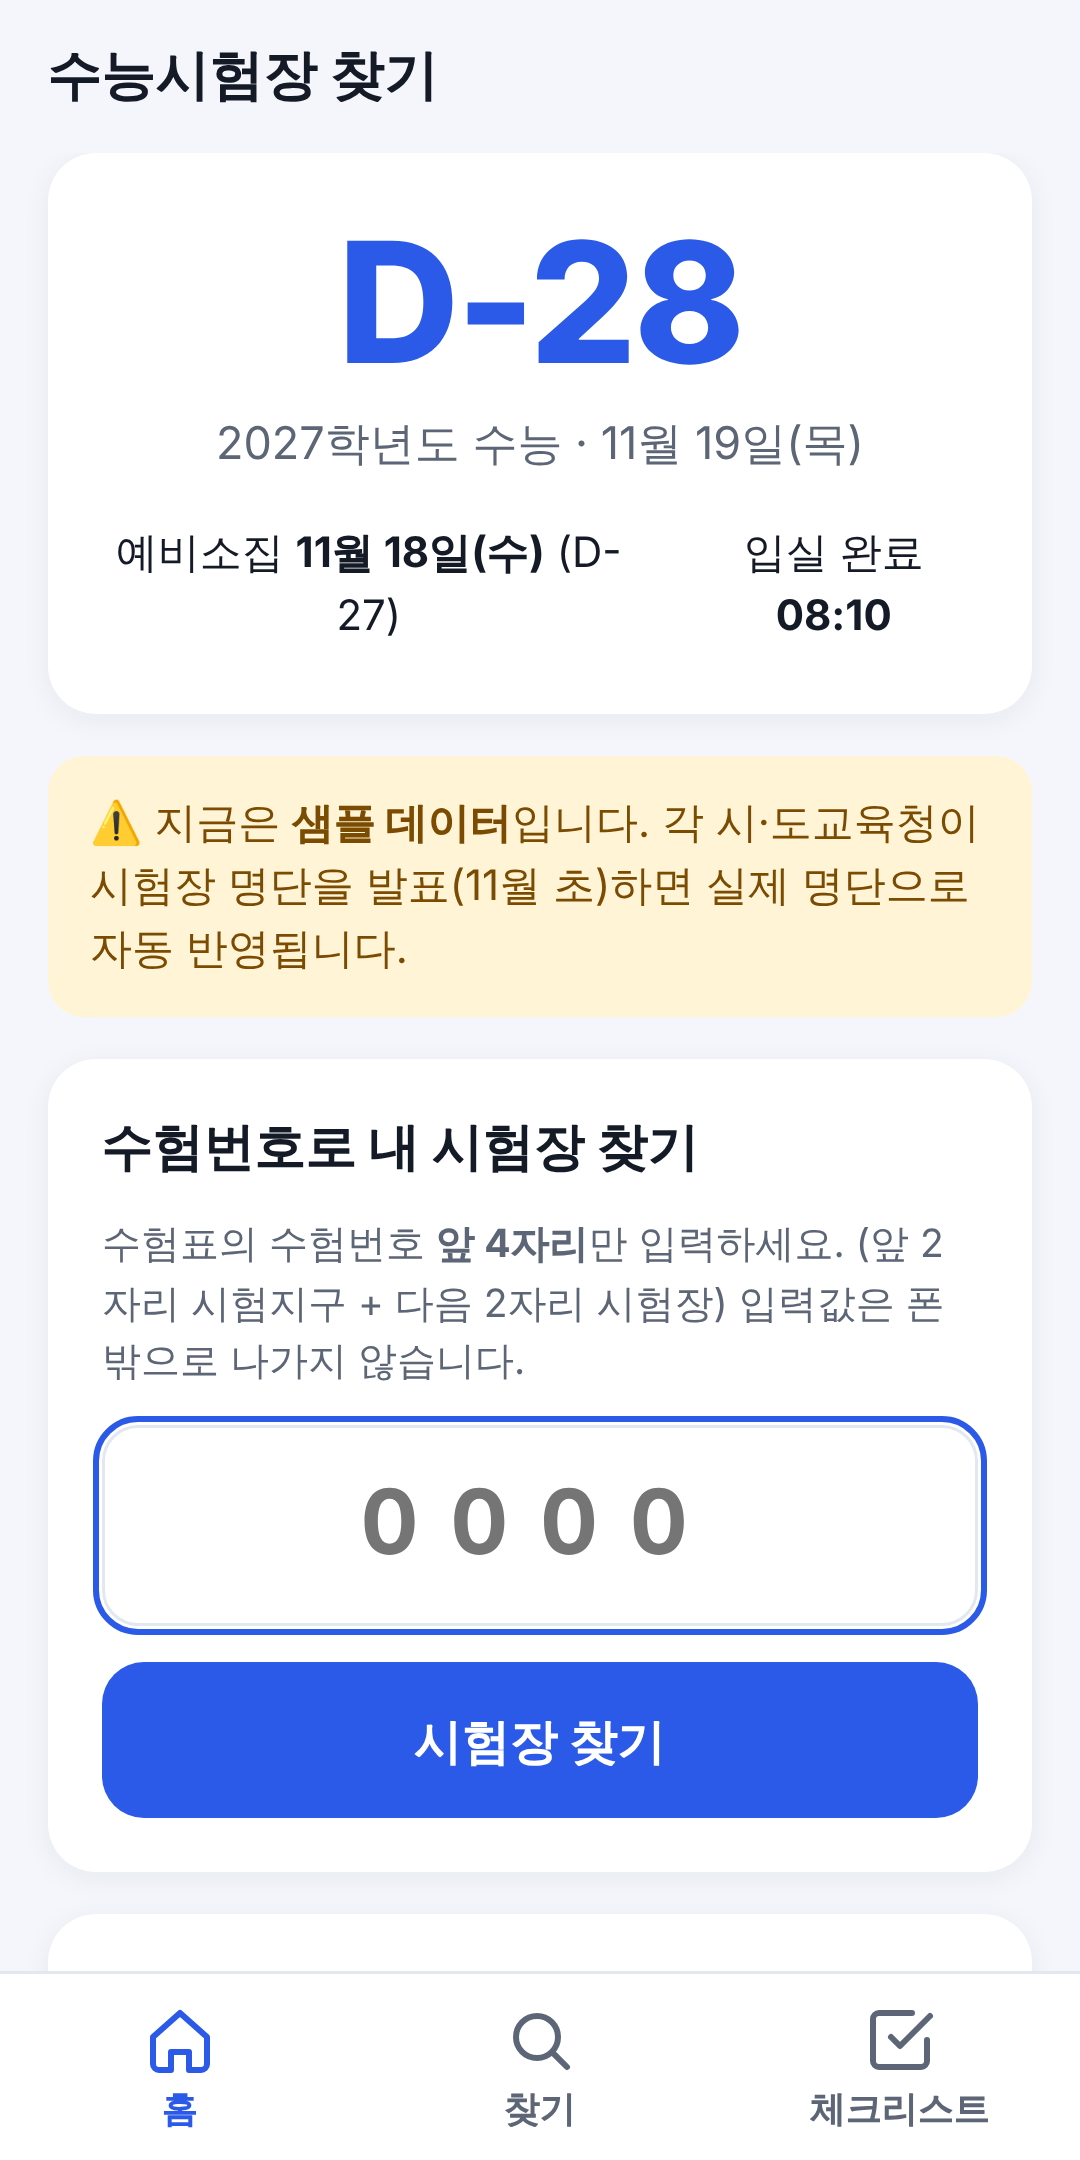
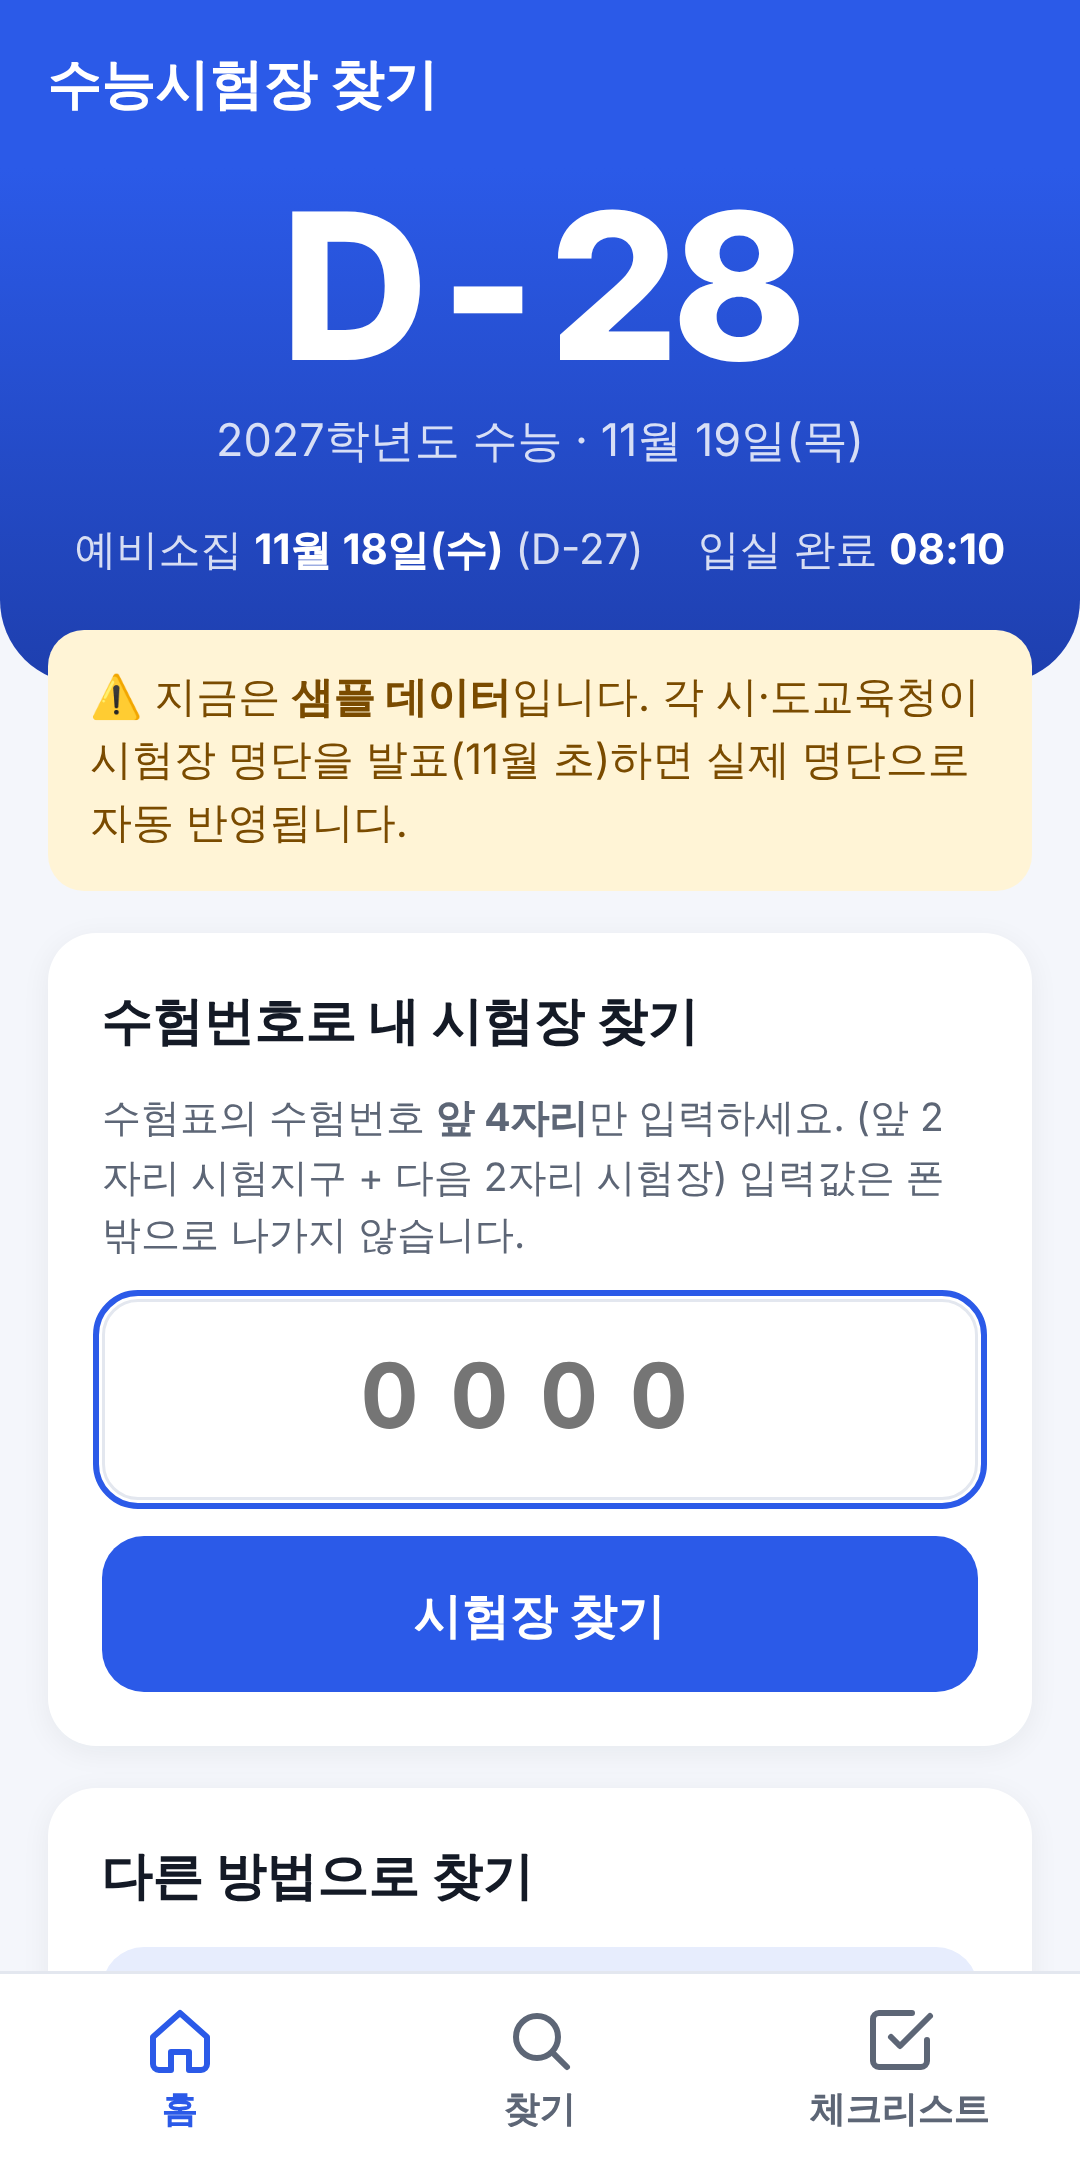
suneung-map: 앱 느낌의 파란 상단 바와 D-day 히어로, 다크 모드 보완, 스토어 스크린샷 갱신
Claude-Session: https://claude.ai/code/session_01HViATCC4YaR3fDJoB7hEYs

diff --git a/suneung-map/web/style.css b/suneung-map/web/style.css
@@ -2,6 +2,7 @@
   --bg: #f4f6fb; --card: #ffffff; --text: #141a26; --muted: #5d6676; --line: #e3e7ef;
   --accent: #2b5ae8; --accent-text: #ffffff; --accent-soft: #e7edfd;
   --warn-bg: #fff4d6; --warn-text: #7a4b00; --ok: #1f9d55; --danger: #d33a2f;
+  --bar: #2b5ae8; --bar-2: #1e3fae; --bar-fg: #ffffff; --bar-fg-soft: rgba(255,255,255,.82);
   --naver: #03c75a; --kakao: #fee500; --kakao-text: #191919; --tmap: #1b5fe0;
   --radius: 16px; --shadow: 0 2px 10px rgba(20, 26, 38, .06);
 }
@@ -9,13 +10,15 @@
   :root:not([data-theme="light"]) {
     --bg: #0f1420; --card: #1a2130; --text: #eef1f7; --muted: #9aa5b8; --line: #2a3345;
     --accent: #5b84ff; --accent-soft: #1f2a48; --warn-bg: #3a2e12; --warn-text: #ffd58a;
-    --shadow: 0 2px 10px rgba(0, 0, 0, .35);
+    --bar: #1b2f6e; --bar-2: #121f4a;
+    --shadow: 0 2px 10px rgba(0, 0, 0, .35); color-scheme: dark;
   }
 }
 :root[data-theme="dark"] {
   --bg: #0f1420; --card: #1a2130; --text: #eef1f7; --muted: #9aa5b8; --line: #2a3345;
   --accent: #5b84ff; --accent-soft: #1f2a48; --warn-bg: #3a2e12; --warn-text: #ffd58a;
-  --shadow: 0 2px 10px rgba(0, 0, 0, .35);
+  --bar: #1b2f6e; --bar-2: #121f4a;
+  --shadow: 0 2px 10px rgba(0, 0, 0, .35); color-scheme: dark;
 }
 * { box-sizing: border-box; }
 html, body { margin: 0; padding: 0; }
@@ -24,15 +27,28 @@ body {
   font-family: "Pretendard", -apple-system, BlinkMacSystemFont, "Apple SD Gothic Neo", "Noto Sans KR", "Malgun Gothic", system-ui, sans-serif;
   font-size: 16px; line-height: 1.5; -webkit-text-size-adjust: 100%;
   padding-bottom: calc(72px + env(safe-area-inset-bottom));
+  overscroll-behavior-y: none; -webkit-tap-highlight-color: transparent;
 }
+body::before { content: ""; position: fixed; inset: 0 0 auto; height: env(safe-area-inset-top, 0px); background: var(--bar); z-index: 11; }
+button, a.btn, nav.bottom a { user-select: none; -webkit-user-select: none; }
 a { color: var(--accent); }
 button { font: inherit; }
 header.top {
-  position: sticky; top: 0; z-index: 10; background: var(--bg);
-  display: flex; align-items: center; gap: 8px; padding: 12px 16px; padding-top: calc(12px + env(safe-area-inset-top));
+  position: sticky; top: env(safe-area-inset-top, 0px); z-index: 10; background: var(--bar); color: var(--bar-fg);
+  display: flex; align-items: center; gap: 8px; min-height: 56px; padding: 8px 16px;
 }
-header.top .back { background: none; border: 0; color: var(--text); font-size: 22px; padding: 4px 8px 4px 0; cursor: pointer; }
-header.top h1 { font-size: 18px; margin: 0; font-weight: 700; flex: 1; }
+header.top .back { background: none; border: 0; color: var(--bar-fg); font-size: 26px; line-height: 1; padding: 4px 10px 6px 0; cursor: pointer; }
+header.top h1 { font-size: 18px; margin: 0; font-weight: 700; flex: 1; white-space: nowrap; overflow: hidden; text-overflow: ellipsis; }
+header.top .hidden-title { opacity: 0; }
+.hero {
+  background: linear-gradient(180deg, var(--bar) 0%, var(--bar-2) 100%); color: var(--bar-fg);
+  margin: 0 -16px 0; padding: 6px 16px 34px; text-align: center; border-radius: 0 0 28px 28px;
+}
+.hero .big { font-size: 68px; font-weight: 800; letter-spacing: -2px; line-height: 1; font-variant-numeric: tabular-nums; }
+.hero .sub { margin-top: 6px; color: var(--bar-fg-soft); font-size: 15px; }
+.hero .row { display: flex; justify-content: center; gap: 18px; margin-top: 14px; font-size: 14px; color: var(--bar-fg-soft); }
+.hero .row span b { color: var(--bar-fg); }
+.hero + * { margin-top: -18px; position: relative; }
 main { padding: 0 16px; max-width: 560px; margin: 0 auto; }
 .card { background: var(--card); border-radius: var(--radius); box-shadow: var(--shadow); padding: 18px; margin-bottom: 14px; }
 .card h2 { font-size: 17px; margin: 0 0 10px; }

diff --git a/suneung-map/web/index.html b/suneung-map/web/index.html
@@ -5,7 +5,8 @@
   <meta name="viewport" content="width=device-width, initial-scale=1, viewport-fit=cover">
   <title>수능시험장 찾기</title>
   <meta name="description" content="수험번호 앞 4자리 또는 지역으로 수능 시험장을 찾고, 네이버지도·카카오맵·티맵으로 바로 길찾기">
-  <meta name="theme-color" content="#2b5ae8">
+  <meta name="theme-color" content="#2b5ae8" media="(prefers-color-scheme: light)">
+  <meta name="theme-color" content="#1b2f6e" media="(prefers-color-scheme: dark)">
   <meta name="mobile-web-app-capable" content="yes">
   <meta name="apple-mobile-web-app-capable" content="yes">
   <meta name="apple-mobile-web-app-status-bar-style" content="default">

diff --git a/suneung-map/web/app.js b/suneung-map/web/app.js
@@ -151,7 +151,7 @@
     const d = state.data, dd = daysUntil(d.examDate), pd = daysUntil(d.preAssemblyDate);
     const saved = siteById(savedId());
     app.innerHTML = `
-      <section class="card dday">
+      <section class="hero">
         <div class="big">${ddayText(dd)}</div>
         <div class="sub">${esc(d.examYear)} 수능 · ${fmtDate(d.examDate)}</div>
         <div class="row"><span>예비소집 <b>${fmtDate(d.preAssemblyDate)}</b> ${pd >= 0 ? `(${ddayText(pd)})` : ''}</span><span>입실 완료 <b>${esc(d.entryDeadline)}</b></span></div>
